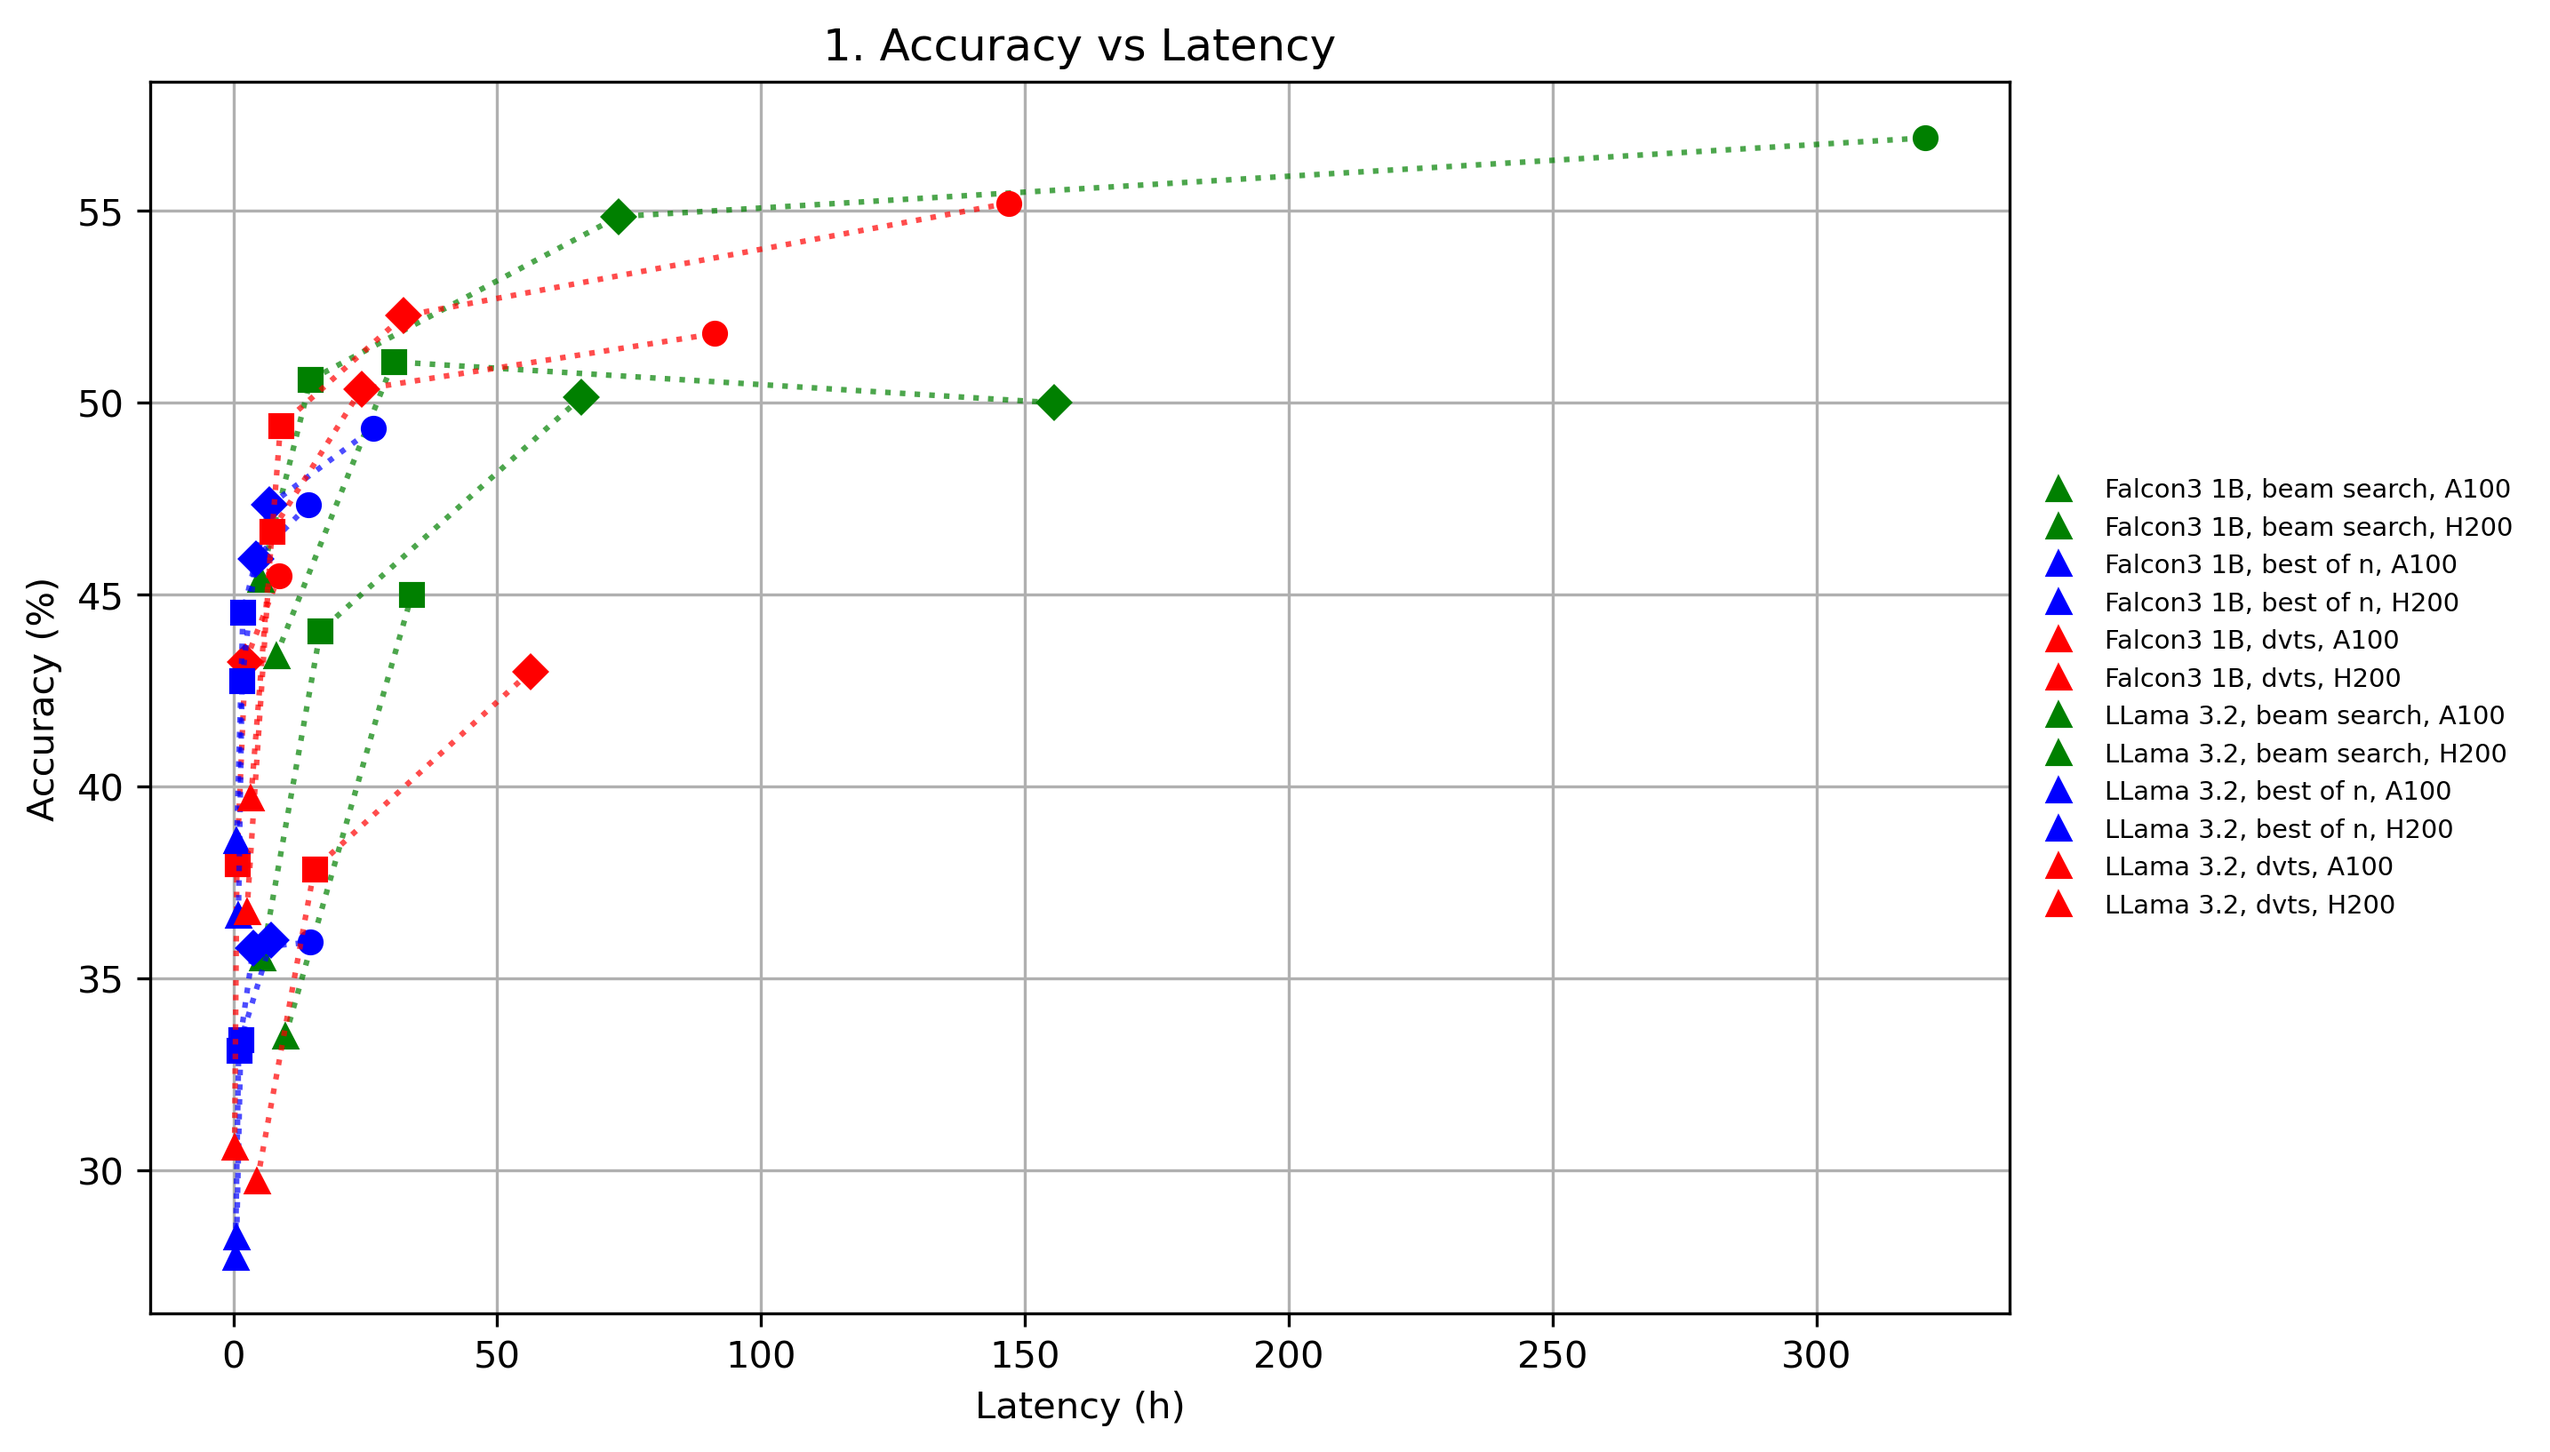
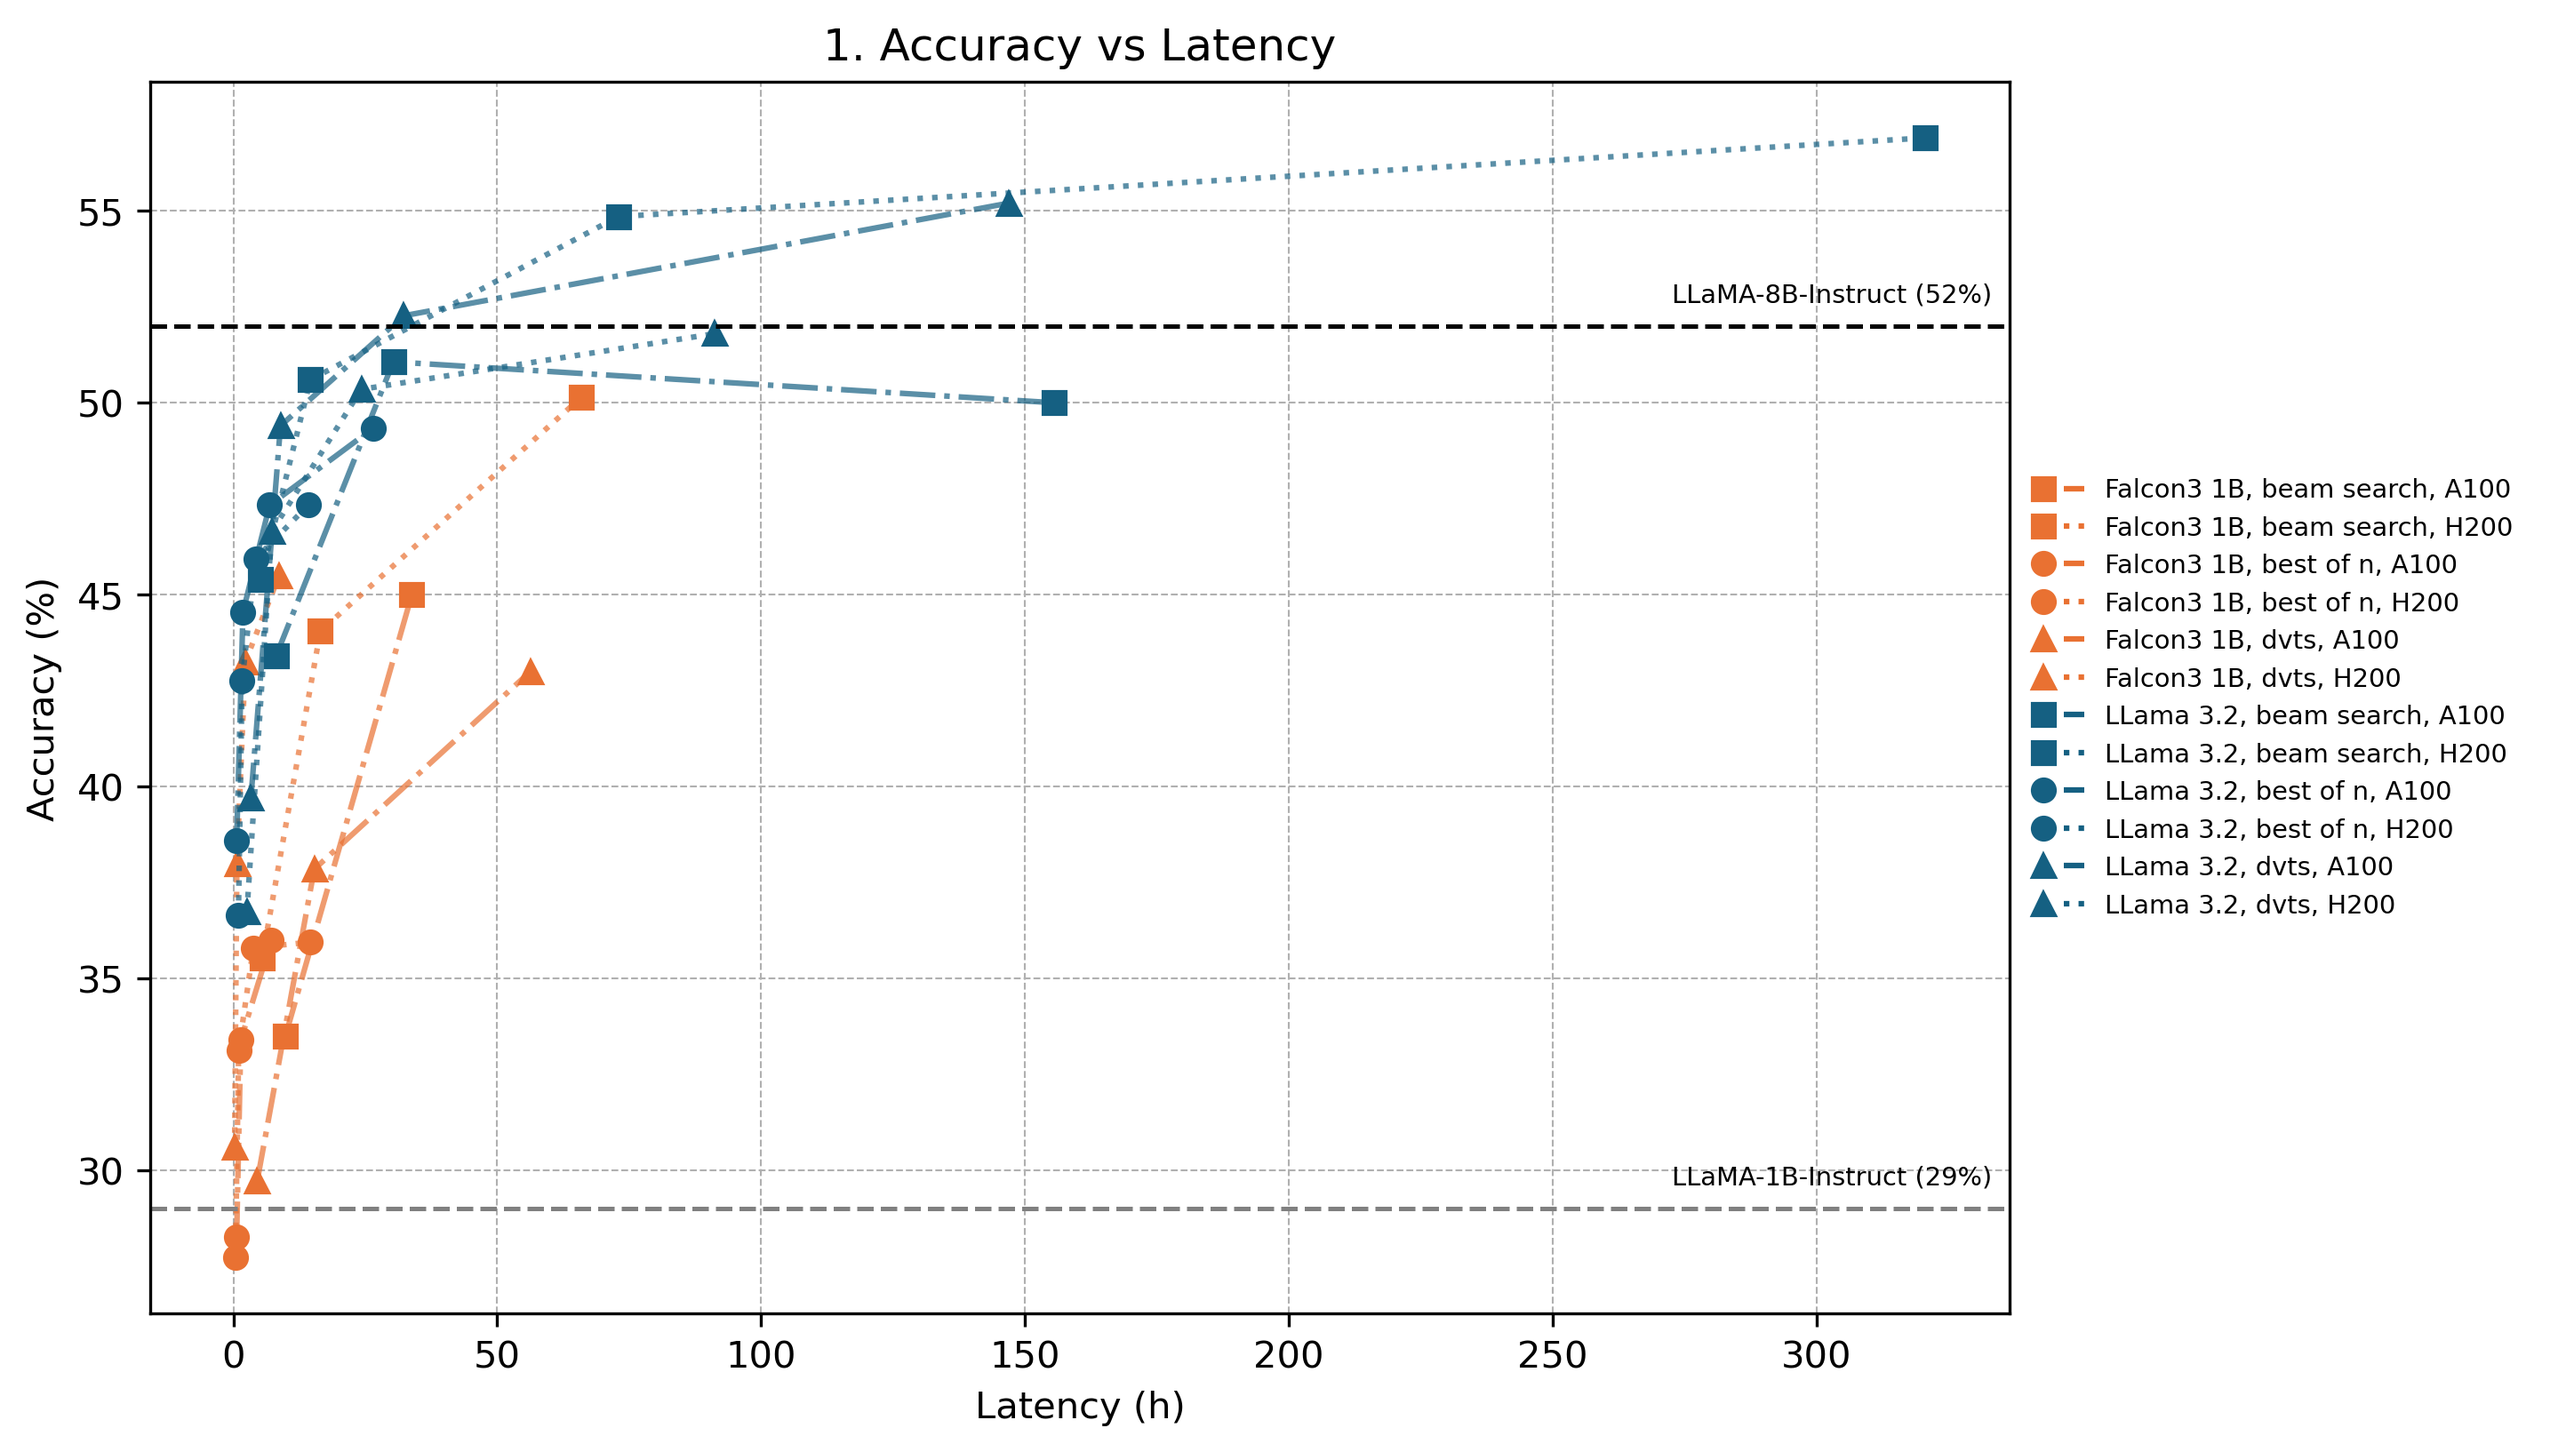
adjusted formatting, added baselines

diff --git a/stats/plot.py b/stats/plot.py
@@ -3,140 +3,150 @@ import matplotlib.pyplot as plt
 import sys
 import os
 
-# Check command line args
-if len(sys.argv) < 2:
-    print("Usage: python plot_metrics.py <csv_file>")
-    sys.exit(1)
+from matplotlib.lines import Line2D
+from matplotlib.legend_handler import HandlerTuple
 
-csv_path = sys.argv[1]
-csv_name = os.path.splitext(os.path.basename(csv_path))[0]
-output_dir = os.path.join("plots", csv_name)
-os.makedirs(output_dir, exist_ok=True)
-
-# Load CSV
-df = pd.read_csv(csv_path)
-
-# Drop rows with missing values needed for plotting
-df_clean = df.dropna(subset=['Latency (h)', 'Total Energy (kWh)', 'Accuracy']).copy()
-
-# Compute derived metrics
-df_clean['Latency-Energy Product'] = df_clean['Latency (h)'] * df_clean['Total Energy (kWh)']
-df_clean['Accuracy/Energy'] = df_clean['Accuracy'] * df_clean['Total Energy (kWh)']
-df_clean['Accuracy/Latency'] = df_clean['Accuracy'] * df_clean['Latency (h)']
-
-# Color and marker maps
-color_map = {'best of n': 'blue', 'beam search': 'green', 'dvts': 'red'}
-marker_map = {4: '^', 16: 's', 64: 'D', 256: 'o'}
-
-# Plot helper function
-def plot_custom(x_col, y_col, xlabel, ylabel, title, filename):
+def plot_custom(df_clean, x_col, y_col, xlabel, ylabel, title, filename, output_dir, model_color_map, algo_marker_map, hardware_line_map, log=False):
     plt.figure(figsize=(9, 6))
-
-    # Group by Model, Algo, and Hardware
     grouped = df_clean.groupby(['Model', 'Algo', 'Hardware'])
+
+    legend_handles = {}
 
     for (model, algo, hw), group in grouped:
         group_sorted = group.sort_values('Sampling')
-        color = color_map.get(algo, 'black')
-        linestyle = ':'  # dotted line
-        label_base = f"{model} ({hw})"
+        color = model_color_map.get(model, 'black')
+        marker = algo_marker_map.get(algo, 'x')
+        linestyle = hardware_line_map.get(hw, '-')
+        label = f"{model}, {algo}, {hw}"
 
+        # Plot individual points
         for i, (_, row) in enumerate(group_sorted.iterrows()):
-            sampling = row['Sampling']
-            marker = marker_map.get(sampling, 'x')
-            # Only show label once for the group (on first point)
-            label = f"{model}, {algo}, {hw}" if i == 0 else None
             plt.plot(row[x_col], row[y_col], marker=marker, color=color,
-                     linestyle='None', label=label)
+                     linestyle='None', label=label if i == 0 else None)
 
-        # Connect points with a dotted line for the curve
+        # Plot connecting line
         plt.plot(group_sorted[x_col], group_sorted[y_col], linestyle=linestyle,
                  color=color, alpha=0.7)
 
-    # De-duplicate legend
-    handles, labels = plt.gca().get_legend_handles_labels()
-    by_label = dict(zip(labels, handles))
-    plt.legend(by_label.values(), by_label.keys(), bbox_to_anchor=(1.0, 0.5), loc='center left', fontsize='x-small', frameon=False)
+        # Create marker-only and line-only handles for legend
+        if label not in legend_handles:
+            marker_handle = Line2D([0], [0], marker=marker, linestyle='None',
+                                   color=color, markersize=6)
+            line_handle = Line2D([0], [0], linestyle=linestyle,
+                                 color=color, linewidth=1.5)
+            legend_handles[label] = (marker_handle, line_handle)
+
+    # Add the combined marker-line legend using HandlerTuple
+    plt.legend(legend_handles.values(), legend_handles.keys(),
+               handler_map={tuple: HandlerTuple(ndivide=None)},
+               bbox_to_anchor=(1.0, 0.5), loc='center left',
+               fontsize='x-small', frameon=False)
+
+    # Plot baseline lines if y-axis is Accuracy
+    if 'Accuracy' in ylabel:
+        ymin, ymax = plt.ylim()
+        xmin, xmax = plt.xlim()
+
+        # LLaMA-1B-Instruct baseline
+        plt.axhline(y=29, color='gray', linestyle='--', linewidth=1.2)
+        plt.text(x=xmax * 0.99, y=29 + 0.5, s='LLaMA-1B-Instruct (29%)',
+                 va='bottom', ha='right', fontsize='x-small', color='black')
+
+        # LLaMA-8B-Instruct baseline
+        plt.axhline(y=52, color='black', linestyle='--', linewidth=1.2)
+        plt.text(x=xmax * 0.99, y=52 + 0.5, s='LLaMA-8B-Instruct (52%)',
+                 va='bottom', ha='right', fontsize='x-small', color='black')
+
+    if log:
+        plt.xscale('log')
+        plt.yscale('log')
 
     plt.xlabel(xlabel)
     plt.ylabel(ylabel)
     plt.title(title)
-    plt.grid(True)
+    plt.grid(True, which='both' if log else 'major', linestyle='--', linewidth=0.5)
     plt.savefig(os.path.join(output_dir, filename), dpi=300, bbox_inches='tight')
     plt.close()
 
-# Generate plots
-plot_custom('Latency (h)', 'Accuracy', 'Latency (h)', 'Accuracy (%)',
-            '1. Accuracy vs Latency', '1_accuracy_vs_latency.png')
+def main():
+    if len(sys.argv) < 2:
+        print("Usage: python plot_metrics.py <csv_file>")
+        sys.exit(1)
 
-plot_custom('Total Energy (kWh)', 'Accuracy', 'Total Energy (kWh)', 'Accuracy (%)',
-            '2. Accuracy vs Energy', '2_accuracy_vs_energy.png')
+    csv_path = sys.argv[1]
+    csv_name = os.path.splitext(os.path.basename(csv_path))[0]
+    output_dir = os.path.join("plots", csv_name)
+    os.makedirs(output_dir, exist_ok=True)
 
-plot_custom('Accuracy', 'Latency-Energy Product', 'Accuracy (%)', 'Latency × Energy (kWh·h)',
-            '3. Accuracy vs Latency-Energy Product', '3_accuracy_vs_latency_energy_product.png')
+    # Load and clean CSV
+    df = pd.read_csv(csv_path)
+    df_clean = df.dropna(subset=['Latency (h)', 'Total Energy (kWh)', 'Accuracy']).copy()
 
-plot_custom('Latency (h)', 'Accuracy/Energy', 'Latency (h)', 'Accuracy x Energy',
-            '4. Latency vs Accuracy-Energy Product', '4_latency_vs_acc_energy_product.png')
+    # Compute derived metrics
+    df_clean['Latency-Energy Product'] = df_clean['Latency (h)'] * df_clean['Total Energy (kWh)']
+    df_clean['Accuracy/Energy'] = df_clean['Accuracy'] * df_clean['Total Energy (kWh)']
+    df_clean['Accuracy/Latency'] = df_clean['Accuracy'] * df_clean['Latency (h)']
 
-plot_custom('Total Energy (kWh)', 'Accuracy/Latency', 'Total Energy (kWh)', 'Accuracy x Latency',
-            '5. Energy vs Accuracy-Latency Product', '5_energy_vs_acc_latency_product.png')
+    # Styling maps
+    unique_models = sorted(df_clean['Model'].unique())
+    fixed_colors = ['#E97132', '#156082', '#196B24']  # orange, blue, green
 
-# Generate log-log plots
-def plot_custom_loglog(x_col, y_col, xlabel, ylabel, title, filename):
-    plt.figure(figsize=(9, 6))
+    model_color_map = {
+        model: fixed_colors[i % len(fixed_colors)]
+        for i, model in enumerate(unique_models)
+    }
 
-    # Group by Model, Algo, and Hardware
-    grouped = df_clean.groupby(['Model', 'Algo', 'Hardware'])
+    algo_marker_map = {
+        'best of n': 'o',
+        'dvts': '^',
+        'beam search': 's'
+    }
 
-    for (model, algo, hw), group in grouped:
-        group_sorted = group.sort_values('Sampling')
-        color = color_map.get(algo, 'black')
-        linestyle = ':'  # dotted line
-        label_base = f"{model} ({hw})"
+    hardware_line_map = {
+        'A100': '-.',
+        'H200': ':',
+        'A40': '--'
+    }
 
-        for i, (_, row) in enumerate(group_sorted.iterrows()):
-            sampling = row['Sampling']
-            marker = marker_map.get(sampling, 'x')
-            label = f"{model}, {algo}, {hw}" if i == 0 else None
-            plt.plot(row[x_col], row[y_col], marker=marker, color=color,
-                     linestyle='None', label=label)
+    # Plot calls
+    plot_custom(df_clean, 'Latency (h)', 'Accuracy', 'Latency (h)', 'Accuracy (%)',
+                '1. Accuracy vs Latency', '1_accuracy_vs_latency.png', output_dir,
+                model_color_map, algo_marker_map, hardware_line_map)
 
-        # Dotted line joining points
-        plt.plot(group_sorted[x_col], group_sorted[y_col], linestyle=linestyle,
-                 color=color, alpha=0.7)
+    plot_custom(df_clean, 'Total Energy (kWh)', 'Accuracy', 'Total Energy (kWh)', 'Accuracy (%)',
+                '2. Accuracy vs Energy', '2_accuracy_vs_energy.png', output_dir,
+                model_color_map, algo_marker_map, hardware_line_map)
 
-    # Log-log scale
-    plt.xscale('log')
-    plt.yscale('log')
+    plot_custom(df_clean, 'Sampling', 'Accuracy', 'Sampling (n)', 'Accuracy (%)',
+                '3. Accuracy vs Sampling (n)', '3_accuracy_vs_sampling.png', output_dir,
+                model_color_map, algo_marker_map, hardware_line_map)
 
-    # Clean legend
-    handles, labels = plt.gca().get_legend_handles_labels()
-    by_label = dict(zip(labels, handles))
-    plt.legend(by_label.values(), by_label.keys(), bbox_to_anchor=(1.0, 0.5), loc='center left', fontsize='x-small', frameon=False)
+    plot_custom(df_clean, 'Accuracy', 'Latency-Energy Product', 'Accuracy (%)', 'Latency × Energy (kWh·h)',
+                '4a. Accuracy vs Latency-Energy Product', '4a_accuracy_vs_latency_energy_product.png', output_dir,
+                model_color_map, algo_marker_map, hardware_line_map)
 
-    plt.xlabel(xlabel)
-    plt.ylabel(ylabel)
-    plt.title(title)
-    plt.grid(True, which='both', linestyle='--', linewidth=0.5)
-    plt.savefig(os.path.join(output_dir, filename), dpi=300, bbox_inches='tight')
-    plt.close()
+    plot_custom(df_clean, 'Latency (h)', 'Accuracy/Energy', 'Latency (h)', 'Accuracy x Energy',
+                '5a. Latency vs Accuracy-Energy Product', '5a_latency_vs_acc_energy_product.png', output_dir,
+                model_color_map, algo_marker_map, hardware_line_map)
 
-# 6. Latency vs Accuracy × Energy (log-log)
-plot_custom_loglog('Accuracy', 'Latency-Energy Product',
-                   'Accuracy (%)', 'Latency × Energy (kWh·h)',
-                   '6. Accuracy vs Latency-Energy Product (Log-Log)',
-                   '6_accuracy_vs_latency_energy_product_loglog.png')
+    plot_custom(df_clean, 'Total Energy (kWh)', 'Accuracy/Latency', 'Total Energy (kWh)', 'Accuracy x Latency',
+                '6a. Energy vs Accuracy-Latency Product', '6a_energy_vs_acc_latency_product.png', output_dir,
+                model_color_map, algo_marker_map, hardware_line_map)
 
-# 7. Latency vs Accuracy × Energy (log-log)
-plot_custom_loglog('Latency (h)', 'Accuracy/Energy',
-                   'Latency (h)', 'Accuracy × Energy',
-                   '7. Latency vs Accuracy-Energy Product (Log-Log)',
-                   '7_latency_vs_acc_energy_product_loglog.png')
+    # Log scale plots
+    plot_custom(df_clean, 'Accuracy', 'Latency-Energy Product', 'Accuracy (%)', 'Latency × Energy (kWh·h)',
+                '4b. Accuracy vs Latency-Energy Product Log Scale', '4b_accuracy_vs_latency_energy_product.png', output_dir,
+                model_color_map, algo_marker_map, hardware_line_map, log=True)
 
-# 8. Energy vs Accuracy × Latency (log-log)
-plot_custom_loglog('Total Energy (kWh)', 'Accuracy/Latency',
-                   'Total Energy (kWh)', 'Accuracy × Latency',
-                   '8. Energy vs Accuracy-Latency Product (Log-Log)',
-                   '8_energy_vs_acc_latency_product_loglog.png')
+    plot_custom(df_clean, 'Latency (h)', 'Accuracy/Energy', 'Latency (h)', 'Accuracy x Energy',
+                '5b. Latency vs Accuracy-Energy Product Log Scale', '5b_latency_vs_acc_energy_product.png', output_dir,
+                model_color_map, algo_marker_map, hardware_line_map, log=True)
 
-print(f"✅ All plots saved to: {output_dir}")
+    plot_custom(df_clean, 'Total Energy (kWh)', 'Accuracy/Latency', 'Total Energy (kWh)', 'Accuracy x Latency',
+                '6b. Energy vs Accuracy-Latency Product Log Scale', '6b_energy_vs_acc_latency_product.png', output_dir,
+                model_color_map, algo_marker_map, hardware_line_map, log=True)
+
+    print(f"✅ All plots saved to: {output_dir}")
+
+if __name__ == "__main__":
+    main()
